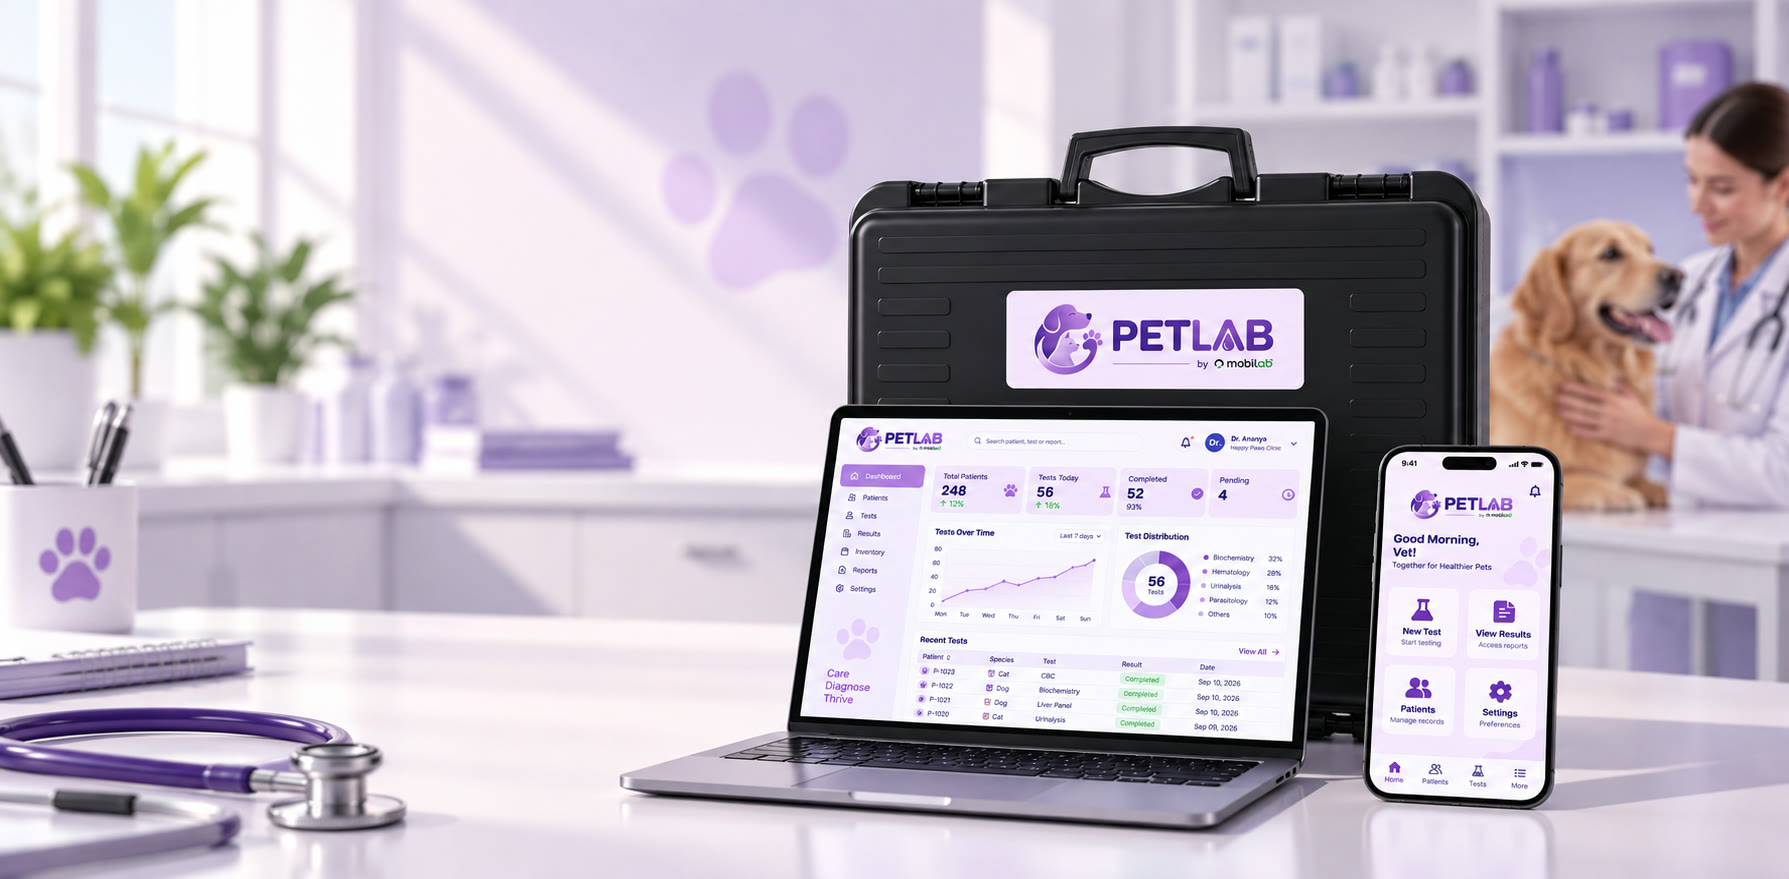
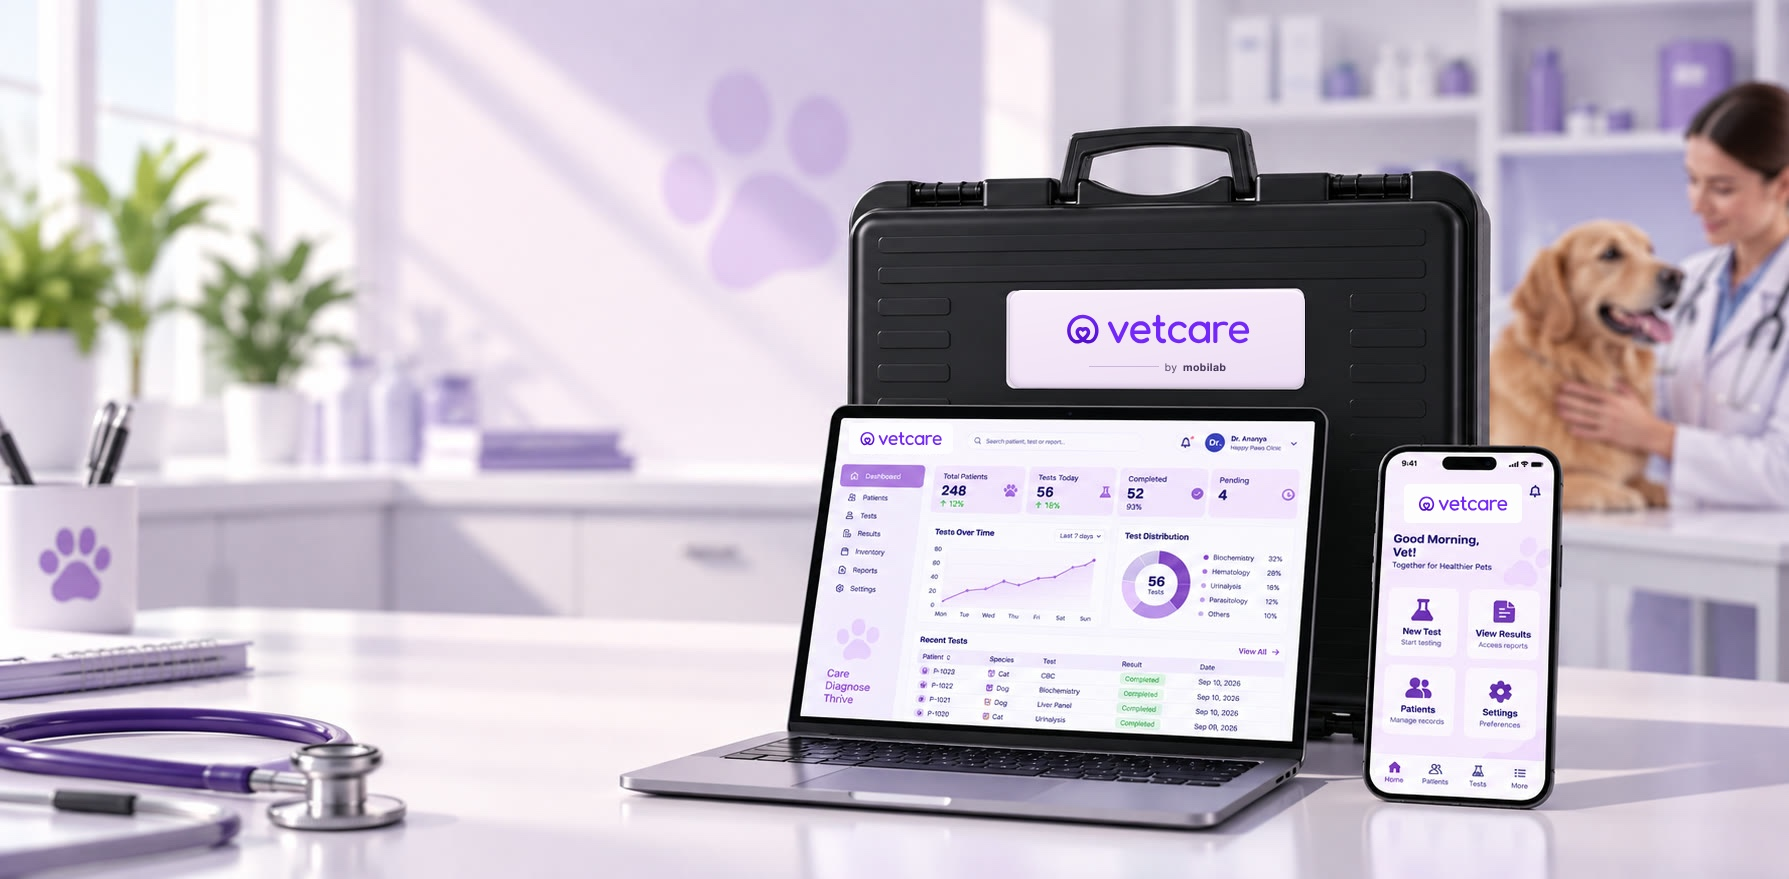
Rebrand PETLAB to VETCARE across imagery, add hospital and research cards, compact promise row, platform-attributed validation claims

Changed region(s): [[0.5534, 0.3379, 0.7378, 0.43], [0.7686, 0.5529, 0.8608, 0.5836], [0.4612, 0.4915, 0.5226, 0.5222]]

diff --git a/index.html b/index.html
@@ -17,7 +17,7 @@
 <meta property="og:site_name" content="VETCARE by mobilab">
 <meta property="og:url" content="https://petlab.in/">
 <meta property="og:title" content="VETCARE: the AI-powered pet lab that comes to you">
-<meta property="og:description" content="India's first AI-powered point-of-care veterinary blood analyser. 17 parameters, 5 clinical profiles, an AI-analysed report in ~30 minutes, at your clinic, not a distant lab. CDSCO licensed.">
+<meta property="og:description" content="India's first AI-powered point-of-care veterinary blood analyser. 17 parameters, 5 clinical profiles, an AI-analysed report in ~30 minutes, at your clinic, not a distant lab. Built on mobilab's CDSCO-licensed platform.">
 <meta property="og:image" content="https://petlab.in/assets/brand/og-cover.jpg">
 <meta property="og:image:width" content="1200">
 <meta property="og:image:height" content="630">
@@ -25,13 +25,13 @@
 <meta property="og:locale" content="en_IN">
 <meta name="twitter:card" content="summary_large_image">
 <meta name="twitter:title" content="VETCARE: the AI-powered pet lab that comes to you">
-<meta name="twitter:description" content="AI-analysed veterinary blood results in ~30 minutes, wherever the animal is. CDSCO licensed, validated by AIIMS.">
+<meta name="twitter:description" content="AI-analysed veterinary blood results in ~30 minutes, wherever the animal is. Built on mobilab's CDSCO-licensed platform, validated in human diagnostics at AIIMS.">
 <meta name="twitter:image" content="https://petlab.in/assets/brand/og-cover.jpg">
 
 <link rel="preconnect" href="https://fonts.googleapis.com">
 <link rel="preconnect" href="https://fonts.gstatic.com" crossorigin>
 <link href="https://fonts.googleapis.com/css2?family=Fraunces:ital,opsz,wght@0,9..144,400..700;1,9..144,400..700&family=Inter:wght@300;400;500;600;700;800&family=Caveat:wght@500;600&display=swap" rel="stylesheet">
-<link rel="preload" as="image" href="assets/photos/hero-clinic.webp" type="image/webp" fetchpriority="high">
+<link rel="preload" as="image" href="assets/photos/hero-clinic.webp?v=2" type="image/webp" fetchpriority="high">
 <link rel="stylesheet" href="styles.css?v=32">
 <script>document.documentElement.className+=' js';</script>
 <script type="application/ld+json">
@@ -107,7 +107,7 @@
     {
      "@type": "PropertyValue",
      "name": "Regulatory",
-     "value": "CDSCO licensed MFG/IVD/2025/000042; ISO 13485 & 9001"
+     "value": "Built on the mobilab platform: CDSCO licensed MFG/IVD/2025/000042; ISO 13485 & 9001"
     }
    ],
    "offers": {
@@ -180,7 +180,7 @@
      "name": "Is it approved?",
      "acceptedAnswer": {
       "@type": "Answer",
-      "text": "The platform is CDSCO licensed (MFG/IVD/2025/000042), ISO 13485 & 9001 certified and IEC ESD compliant (61000-4-2:2008 & 61000-4-8:2009), and has been validated by AIIMS Delhi, the Indian Army, IIT Guwahati and GMCH Guwahati."
+      "text": "VETCARE is built on the mobilab platform, which is CDSCO licensed (MFG/IVD/2025/000042), ISO 13485 & 9001 certified and IEC ESD compliant (61000-4-2:2008 & 61000-4-8:2009), and has been validated in human diagnostics by AIIMS Delhi, the Indian Army, IIT Guwahati and GMCH Guwahati. Veterinary validation of VETCARE is in progress."
      }
     },
     {
@@ -244,8 +244,8 @@
   <div class="hero__bg" id="heroDepth">
     <div class="hero__layer" data-depth="1">
       <picture>
-        <source srcset="assets/photos/hero-clinic.webp" type="image/webp">
-        <img src="assets/photos/hero-clinic.jpg" width="1789" height="879" fetchpriority="high" decoding="async"
+        <source srcset="assets/photos/hero-clinic.webp?v=2" type="image/webp">
+        <img src="assets/photos/hero-clinic.jpg?v=2" width="1789" height="879" fetchpriority="high" decoding="async"
              alt="A veterinarian with a golden retriever behind the VETCARE case, with the VETCARE dashboard on a laptop and the app on a phone, on a clinic bench.">
       </picture>
       <p class="hero__chip glass" data-depth="2" aria-hidden="true">
@@ -287,7 +287,7 @@
 <!-- proof strip — the institutions, straight under the hero -->
 <div class="hero__proof reveal">
   <div class="hero__proof-inner">
-    <p class="hero__proof-label">Validated by</p>
+    <p class="hero__proof-label">Our platform &middot; validated in human diagnostics by</p>
     <ul class="hero__proof-logos">
       <li><picture><source srcset="assets/partners/logo-aiims.webp" type="image/webp"><img src="assets/partners/logo-aiims.png" alt="AIIMS Delhi" width="240" height="240" decoding="async"></picture></li>
       <li><picture><source srcset="assets/partners/logo-army.webp" type="image/webp"><img src="assets/partners/logo-army.png" alt="Indian Army" width="180" height="180" decoding="async"></picture></li>
@@ -301,8 +301,8 @@
 <!-- ═══════════ 2 · TRUST RIBBON ═══════════ -->
 <section class="ribbon">
   <div class="wrap ribbon__inner">
-    <span>CDSCO Licensed</span><span>ISO 13485 &amp; 9001</span><span>Validated by AIIMS</span>
-    <span>250,000+ tests conducted</span><span>200+ deployments</span><span>15+ states</span>
+    <span>Built on mobilab's CDSCO-licensed platform</span><span>ISO 13485 &amp; 9001</span><span>Platform validated at AIIMS</span>
+    <span>250,000+ tests on the platform</span><span>200+ deployments</span><span>15+ states</span>
   </div>
 </section>
 
@@ -392,7 +392,7 @@
       <figure class="diff__device reveal" data-d="1">
         <span class="diff__glow" aria-hidden="true"></span>
         <div class="diff__float">
-          <picture><source srcset="assets/device/petlab-ecosystem.webp?v=2" type="image/webp"><img src="assets/device/petlab-ecosystem.jpg?v=2" width="1600" height="800" loading="lazy" decoding="async"
+          <picture><source srcset="assets/device/petlab-ecosystem.webp?v=5" type="image/webp"><img src="assets/device/petlab-ecosystem.jpg?v=5" width="1600" height="800" loading="lazy" decoding="async"
                alt="The VETCARE ecosystem: the benchtop analyser, the VETCARE Duo, the field case, and the VETCARE dashboard on a laptop and app on a phone."></picture>
         </div>
         <span class="diff__floor" aria-hidden="true"></span>
@@ -461,6 +461,28 @@
             <span class="place__badge" aria-hidden="true"><svg viewBox="0 0 24 24" fill="none" stroke="currentColor" stroke-width="1.6" stroke-linecap="round" stroke-linejoin="round"><path d="M2.5 20 9 8l6.5 12"/><path d="M12.8 14.8 15.5 10l6 10H2.5"/><path d="M9 14.5l1.8 5.5M17.6 3.6v3M16.1 5.1h3"/></svg></span>
             <h3>At a camp</h3>
             <p>Shelters, boarding, rural camps and field work, with no fixed laboratory infrastructure required.</p>
+          </div>
+        </div>
+      </article>
+      <article class="place reveal" data-d="3">
+        <div class="place__card" data-tilt="5">
+          <div class="place__media"><img src="assets/illustrations/care-hospital.svg" width="1000" height="800" loading="lazy" decoding="async"
+               alt="A veterinary hospital ward: a vet monitors a dog on an exam table, with an IV stand, a wall vitals screen and the VETCARE analyser on a trolley."></div>
+          <div class="place__body">
+            <span class="place__badge" aria-hidden="true"><svg viewBox="0 0 24 24" fill="none" stroke="currentColor" stroke-width="1.6" stroke-linecap="round" stroke-linejoin="round"><path d="M3 21V9l5-3.5V21M8 5.5V21M8 5.5 13 2l8 5v14"/><path d="M14.5 9.5v5M12 12h5M11 21v-4h4v4M2 21h20"/></svg></span>
+            <h3>At a veterinary hospital</h3>
+            <p>In-patient and emergency support: pre-surgical panels, ward-side monitoring and repeat tests without leaving the floor.</p>
+          </div>
+        </div>
+      </article>
+      <article class="place reveal" data-d="4">
+        <div class="place__card" data-tilt="5">
+          <div class="place__media"><img src="assets/illustrations/care-research.svg" width="1000" height="800" loading="lazy" decoding="async"
+               alt="A research institute bench: a researcher at a microscope beside flasks, a sample-tube rack, a laptop with charts and the VETCARE analyser."></div>
+          <div class="place__body">
+            <span class="place__badge" aria-hidden="true"><svg viewBox="0 0 24 24" fill="none" stroke="currentColor" stroke-width="1.6" stroke-linecap="round" stroke-linejoin="round"><path d="M9.5 3h5M10.5 3v5.2L5.6 16.4A3 3 0 0 0 8.3 21h7.4a3 3 0 0 0 2.7-4.6L13.5 8.2V3"/><path d="M7.6 15h8.8"/></svg></span>
+            <h3>At a research institute</h3>
+            <p>Consistent panels for studies and trials: species-aware ranges, exportable results and batch runs for controlled work.</p>
           </div>
         </div>
       </article>
@@ -777,7 +799,7 @@
       <details><summary>Which parameters does it run?</summary><p>Seventeen parameters across five clinical profiles: Liver (AST, ALT, Total Protein, Albumin, Globulin, Total Bilirubin, A/G Ratio, AST/ALT Ratio), Kidney (Urea, Creatinine, BUN, BUN/Creatinine Ratio, Urea/Creatinine Ratio), Diabetic (Glucose), Lipid (Cholesterol, Triglyceride) and Haematology (Haemoglobin).</p></details>
       <details><summary>Does someone need laboratory training to run it?</summary><p>No. The VETCARE Connect app guides the operator step by step, and a veterinary assistant can be fully trained in under a day.</p></details>
       <details><summary>Can it be used outside a clinic?</summary><p>Yes. The unit is battery operated and packed in a single rugged case, so it runs on home visits, at mobile camps and in field settings with no fixed laboratory infrastructure.</p></details>
-      <details><summary>Is it approved?</summary><p>The platform is CDSCO licensed (MFG/IVD/2025/000042), ISO 13485 &amp; 9001 certified and IEC ESD compliant (61000-4-2:2008 &amp; 61000-4-8:2009), and has been validated by AIIMS Delhi, the Indian Army, IIT Guwahati and GMCH Guwahati.</p></details>
+      <details><summary>Is it approved?</summary><p>VETCARE is built on the mobilab platform, which is CDSCO licensed (MFG/IVD/2025/000042), ISO 13485 &amp; 9001 certified and IEC ESD compliant (61000-4-2:2008 &amp; 61000-4-8:2009), and has been validated in human diagnostics by AIIMS Delhi, the Indian Army, IIT Guwahati and GMCH Guwahati. Veterinary validation of VETCARE is in progress.</p></details>
       <details><summary>Which species is the panel validated for?</summary><p>Reference intervals are applied automatically from the species recorded for the patient. The specific validated species list is not yet stated in our source documents. Please ask us directly and we will confirm.</p></details>
       <details><summary>How do I get one?</summary><p>Book a demonstration using the form below, email business@mobilab.in, or call +91 93957 14393.</p></details>
     </div>
@@ -844,11 +866,11 @@
         </div>
         <p class="tc__kicker">Validation</p>
         <h3 class="tc__h">Proven in the field</h3>
-        <p class="tc__text">Validated across leading healthcare institutions and field settings.</p>
+        <p class="tc__text">Validated in human diagnostics across leading healthcare institutions and field settings.</p>
       </li>
     </ul>
 
-    <p class="tc__rule reveal">Validated by leading institutions</p>
+    <p class="tc__rule reveal">Platform validated by leading institutions</p>
     <ul class="tc__logos reveal">
       <li><picture><source srcset="assets/partners/logo-aiims.webp" type="image/webp"><img src="assets/partners/logo-aiims.png" alt="AIIMS Delhi" width="240" height="240" loading="lazy" decoding="async"></picture><span>AIIMS<small>Delhi</small></span></li>
       <li><picture><source srcset="assets/partners/logo-army.webp" type="image/webp"><img src="assets/partners/logo-army.png" alt="Indian Army" width="180" height="180" loading="lazy" decoding="async"></picture><span>Indian Army</span></li>

diff --git a/duo.html b/duo.html
@@ -106,7 +106,7 @@
     {
      "@type": "PropertyValue",
      "name": "Regulatory",
-     "value": "CDSCO licensed MFG/IVD/2025/000042; ISO 13485 & 9001"
+     "value": "Built on the mobilab platform: CDSCO licensed MFG/IVD/2025/000042; ISO 13485 & 9001"
     }
    ],
    "offers": {
@@ -172,7 +172,7 @@
 
 <!-- ═══════════ PRODUCT HERO ═══════════ -->
 <section class="hero hero--product dh">
-  <picture><source srcset="assets/device/duo-hero-scene.webp" type="image/webp"><img class="dh__bg" src="assets/device/duo-hero-scene.jpg" width="1672" height="941" fetchpriority="high" decoding="async"
+  <picture><source srcset="assets/device/duo-hero-scene.webp?v=2" type="image/webp"><img class="dh__bg" src="assets/device/duo-hero-scene.jpg?v=2" width="1672" height="941" fetchpriority="high" decoding="async"
        alt="The VETCARE case open, its lid showing the five test steps and its tray holding the analyser, Mobimix, smartphone, Mobifuge and pipettes, beside a phone running the VETCARE app."></picture>
 
   <div class="wrap dh__inner">
@@ -224,7 +224,7 @@
 
 <section class="ribbon">
   <div class="wrap ribbon__inner">
-    <span>CDSCO Licensed</span><span>ISO 13485 &amp; 9001</span><span>IEC ESD Compliant</span>
+    <span>Built on mobilab's CDSCO-licensed platform</span><span>ISO 13485 &amp; 9001</span><span>IEC ESD Compliant</span>
     <span>17 parameters</span><span>5 clinical profiles</span><span>~30 minute report</span>
   </div>
 </section>
@@ -334,16 +334,16 @@
 
     <ol class="st__grid">
       <li class="x-card reveal"><span class="st__n">01</span>
-        <picture><source srcset="assets/illustrations/steps-book.webp" type="image/webp"><img class="st__art" src="assets/illustrations/steps-book.jpg" width="255" height="250" loading="lazy" decoding="async" alt="The VETCARE app asking for the pet type, name and sample type."></picture>
+        <picture><source srcset="assets/illustrations/steps-book.webp?v=2" type="image/webp"><img class="st__art" src="assets/illustrations/steps-book.jpg?v=2" width="255" height="250" loading="lazy" decoding="async" alt="The VETCARE app asking for the pet type, name and sample type."></picture>
         <h3>Book &amp; log in</h3><p>Enter pet and sample details on the app.</p></li>
       <li class="x-card reveal" data-d="1"><span class="st__n">02</span>
         <picture><source srcset="assets/illustrations/steps-select.webp" type="image/webp"><img class="st__art" src="assets/illustrations/steps-select.jpg" width="238" height="258" loading="lazy" decoding="async" alt="A gloved hand holding a blood sample tube."></picture>
         <h3>Select the test</h3><p>Choose the required test or profile.</p></li>
       <li class="x-card reveal" data-d="2"><span class="st__n">03</span>
-        <picture><source srcset="assets/illustrations/steps-run.webp" type="image/webp"><img class="st__art" src="assets/illustrations/steps-run.jpg" width="390" height="212" loading="lazy" decoding="async" alt="The VETCARE case beside a laptop running the VETCARE dashboard."></picture>
+        <picture><source srcset="assets/illustrations/steps-run.webp?v=2" type="image/webp"><img class="st__art" src="assets/illustrations/steps-run.jpg?v=2" width="390" height="212" loading="lazy" decoding="async" alt="The VETCARE case beside a laptop running the VETCARE dashboard."></picture>
         <h3>Run the sample</h3><p>Add the sample and reagents. Results generated automatically.</p></li>
       <li class="x-card reveal" data-d="3"><span class="st__n">04</span>
-        <picture><source srcset="assets/illustrations/steps-report.webp" type="image/webp"><img class="st__art" src="assets/illustrations/steps-report.jpg" width="330" height="212" loading="lazy" decoding="async" alt="A dog and cat beside a VETCARE report listing profiles marked normal."></picture>
+        <picture><source srcset="assets/illustrations/steps-report.webp?v=2" type="image/webp"><img class="st__art" src="assets/illustrations/steps-report.jpg?v=2" width="330" height="212" loading="lazy" decoding="async" alt="A dog and cat beside a VETCARE report listing profiles marked normal."></picture>
         <h3>Get the AI report</h3><p>Species-specific results, ready in ~30 minutes.</p></li>
     </ol>
   </div>
@@ -570,11 +570,11 @@
         </div>
         <p class="tc__kicker">Validation</p>
         <h3 class="tc__h">Proven in the field</h3>
-        <p class="tc__text">Validated across leading healthcare institutions and field settings.</p>
+        <p class="tc__text">Validated in human diagnostics across leading healthcare institutions and field settings.</p>
       </li>
     </ul>
 
-    <p class="tc__rule reveal">Validated by leading institutions</p>
+    <p class="tc__rule reveal">Platform validated by leading institutions</p>
     <ul class="tc__logos reveal">
       <li><picture><source srcset="assets/partners/logo-aiims.webp" type="image/webp"><img src="assets/partners/logo-aiims.png" alt="AIIMS Delhi" width="240" height="240" loading="lazy" decoding="async"></picture><span>AIIMS<small>Delhi</small></span></li>
       <li><picture><source srcset="assets/partners/logo-army.webp" type="image/webp"><img src="assets/partners/logo-army.png" alt="Indian Army" width="180" height="180" loading="lazy" decoding="async"></picture><span>Indian Army</span></li>

diff --git a/styles.css b/styles.css
@@ -578,27 +578,27 @@ ul,ol{margin:0;padding:0;list-style:none}
 
 /* the four pillars — the brochure's promise panel */
 .pillars__grid{
-  display:grid;grid-template-columns:repeat(2,1fr);
-  max-width:1080px;margin-inline:auto;
-  gap:clamp(18px,2.2vw,30px);
+  display:grid;grid-template-columns:repeat(4,1fr);
+  max-width:1180px;margin-inline:auto;
+  gap:clamp(14px,1.6vw,22px);
 }
 .pillars__card{
   background:#fff;border:1px solid var(--rule);border-radius:18px;
-  padding:clamp(30px,3.4vw,48px) clamp(24px,3vw,40px);
+  padding:clamp(22px,2.4vw,32px) clamp(16px,1.8vw,26px);
   text-align:center;
 }
-.pillars__ico{display:block;color:var(--purple);margin:0 auto 22px}
+.pillars__ico{display:block;color:var(--purple);margin:0 auto 16px}
 .pillars__ico svg{width:clamp(46px,4.4vw,62px);height:auto;margin-inline:auto}
 .pillars__card h3{
-  font-size:clamp(1.1rem,1.5vw,1.32rem);font-weight:600;
+  font-size:clamp(1rem,1.15vw,1.18rem);font-weight:600;
   letter-spacing:.1em;text-transform:uppercase;color:var(--purple);
 }
 .pillars__card h3::after{
   content:"";display:block;width:34px;height:2px;border-radius:2px;
-  background:var(--purple);margin:16px auto 14px;
+  background:var(--purple);margin:12px auto 10px;
 }
 .pillars__card p{
-  font-size:.95rem;line-height:1.7;color:var(--ink-soft);
+  font-size:.92rem;line-height:1.6;color:var(--ink-soft);
   max-width:22em;margin-inline:auto;
 }
 .compare{
@@ -657,7 +657,7 @@ ul,ol{margin:0;padding:0;list-style:none}
 .faq__list p{padding:0 44px 26px 0;font-size:.98rem;line-height:1.75;color:var(--ink-soft);margin:0}
 
 @media (max-width:1080px){
-  .ai__grid,.comes__grid{grid-template-columns:repeat(2,1fr)}
+  .ai__grid,.comes__grid,.pillars__grid{grid-template-columns:repeat(2,1fr)}
 }
 @media (max-width:860px){
   .nav__cta .btn--ghost{display:none}
@@ -1548,8 +1548,10 @@ h2 .it{font-style:italic;font-weight:560}
 /* ═══ DIAGNOSTICS NEAR YOU ═══ */
 .near{background:linear-gradient(180deg,#F7F3FE 0%,#F1EBFC 100%)}
 .near .lead{max-width:48em}
-.near__grid{display:grid;grid-template-columns:repeat(3,1fr);gap:clamp(18px,2.4vw,34px);margin-top:clamp(8px,1.4vw,18px)}
-.place{height:100%}
+.near__grid{display:grid;grid-template-columns:repeat(6,1fr);gap:clamp(18px,2.4vw,34px);margin-top:clamp(8px,1.4vw,18px)}
+.place{height:100%;grid-column:span 2}
+/* five cards sit as 3 + 2, second row centred */
+.place:nth-child(4){grid-column:2/span 2}
 .place__card{height:100%;display:flex;flex-direction:column;border-radius:34px 34px 30px 30px}
 .place__media{
   position:relative;overflow:hidden;
@@ -1557,7 +1559,7 @@ h2 .it{font-style:italic;font-weight:560}
   aspect-ratio:5/4;box-shadow:var(--lift-2);
   transform:translateZ(0);
 }
-.place:nth-child(2) .place__media{border-radius:36px 120px 28px 28px / 36px 70px 28px 28px}
+.place:nth-child(2) .place__media,.place:nth-child(4) .place__media{border-radius:36px 120px 28px 28px / 36px 70px 28px 28px}
 .place__media img{width:100%;height:100%;object-fit:cover;transition:transform 1.2s var(--ease)}
 .place:nth-child(3) .place__media img{object-position:60% 40%}
 .place__card:hover .place__media img{transform:scale(1.045)}
@@ -1606,8 +1608,15 @@ h2 .it{font-style:italic;font-weight:560}
 .near__script{position:absolute;right:clamp(0px,1vw,24px);bottom:clamp(-6px,0vw,10px)}
 
 @media (max-width:1080px){ .near__script{display:none} }
+@media (max-width:1080px){
+  .near__grid{grid-template-columns:repeat(2,1fr)}
+  .place{grid-column:auto}
+  .place:nth-child(4){grid-column:auto}
+  .place:nth-child(5){grid-column:1/-1;max-width:calc(50% - clamp(9px,1.2vw,17px));margin-inline:auto;width:100%}
+}
 @media (max-width:860px){
   .near__grid{grid-template-columns:1fr;max-width:520px;margin-inline:auto}
+  .place:nth-child(5){max-width:none;margin-inline:0}
   .near__route{display:none}
 }
 
@@ -1785,7 +1794,7 @@ h2 .it{font-style:italic;font-weight:560}
   transition:transform .5s var(--ease),box-shadow .5s var(--ease);
 }
 .pillars__card:hover{transform:translateY(-4px);box-shadow:var(--rim),var(--lift-2)}
-.pillars__ico.orb{display:flex;width:84px;height:84px;margin:0 auto 20px}
+.pillars__ico.orb{display:flex;width:64px;height:64px;margin:0 auto 14px}
 .pillars__ico.orb svg{width:44%;height:44%}
 .tabs__pane{box-shadow:var(--lift-1)}
 .faq__list details{transition:background .3s var(--ease)}
